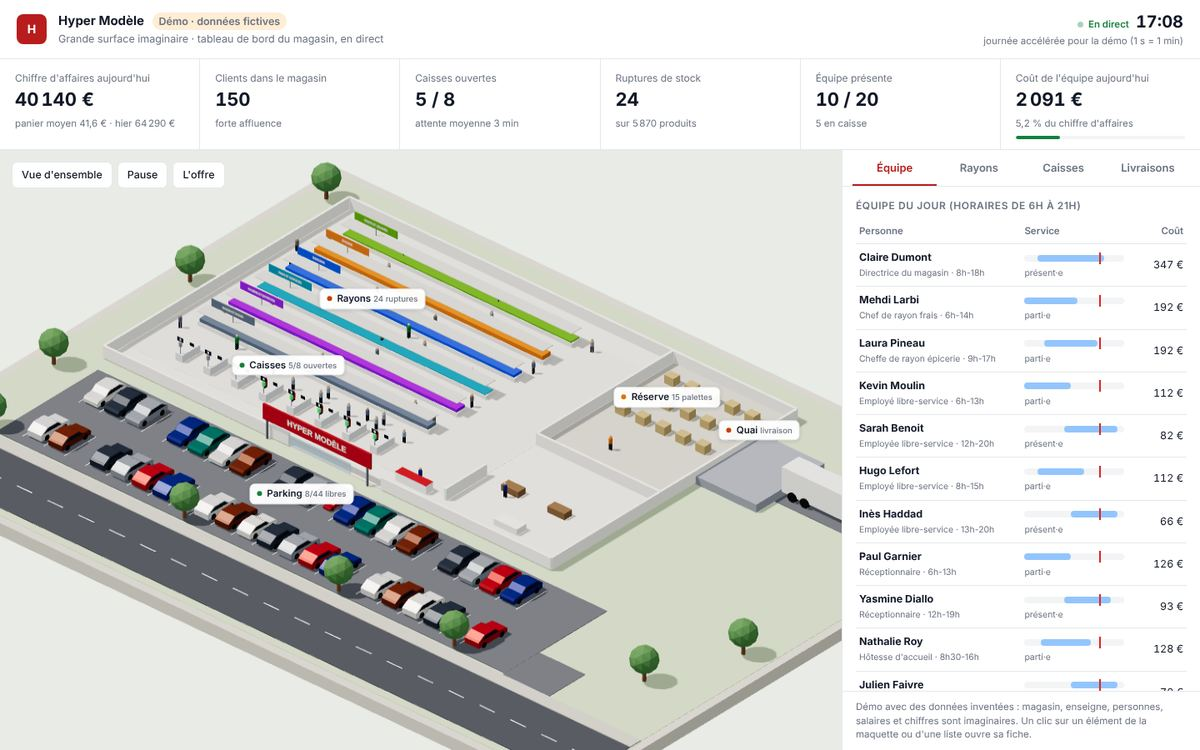
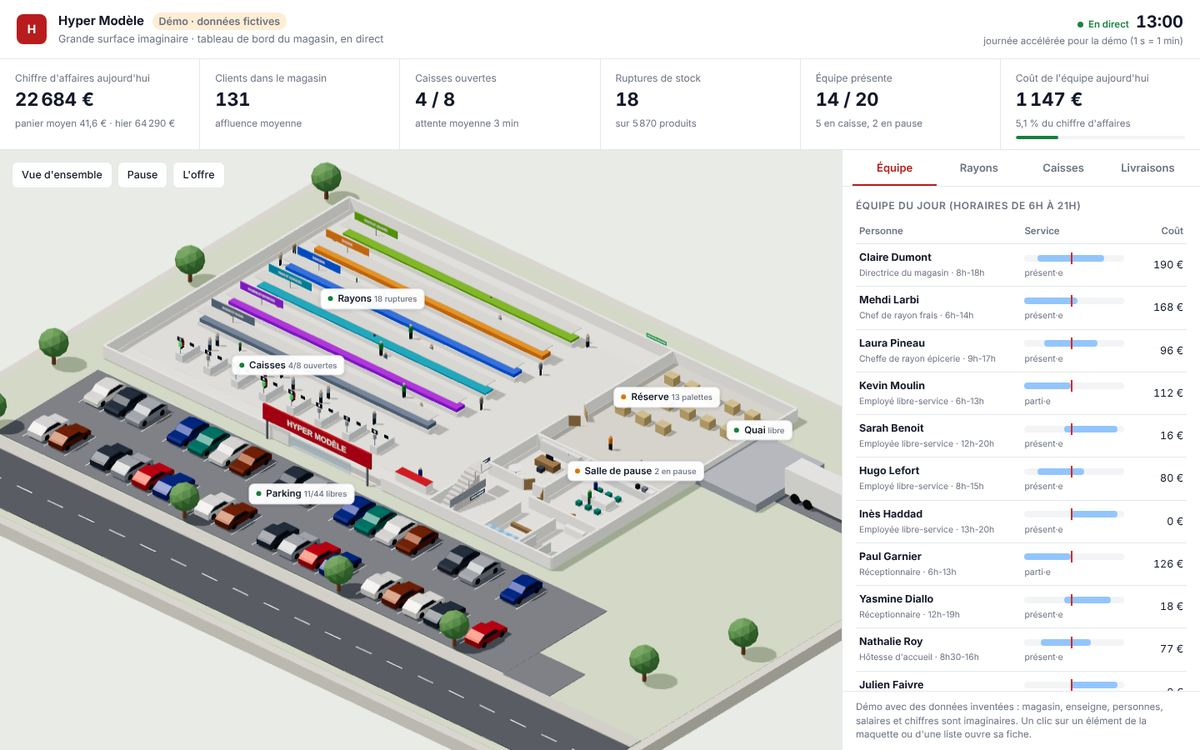
Démo grande surface en vrai bâtiment : bureau de la direction, salle de pause avec pauses en direct, couloir et portes, vestiaires, sanitaires, escalier vers l'étage, sortie de secours ; page de vente sans émojis (icônes dessinées)
Claude-Session: https://claude.ai/code/session_019sAS1mSCwtL7mbf5WR9LH2

diff --git a/crm-visuel/grande-surface/index.html b/crm-visuel/grande-surface/index.html
@@ -216,6 +216,10 @@ const hh = (h) => `${String(Math.floor(h)).padStart(2, '0')}:${String(Math.floor
 const hTxt = (h) => `${Math.floor(h)}h${h % 1 ? String(Math.round((h % 1) * 60)).padStart(2, '0') : ''}`;
 const euros = (n) => Math.round(n).toLocaleString('fr-FR') + ' €';
 const present = (e) => e.debut <= t && t < e.fin;
+// Pause de 30 min au milieu du service (sauf en caisse, remplacée par la caisse voisine) : données fictives
+const debutPause = (e) => (e.fin - e.debut >= 5 && !e.zone.startsWith('c') ? Math.round(((e.debut + e.fin) / 2 - 0.25) * 4) / 4 : null);
+const enPause = (e) => { const d = debutPause(e); return d !== null && present(e) && t >= d && t < d + 0.5; };
+const SIEGES = [[12.3, -6.95, 0], [13.5, -5.05, Math.PI], [14.7, -6.95, 0], [12.3, -5.05, Math.PI], [14.7, -5.05, Math.PI], [13.5, -6.95, 0]];
 // Affluence de 0 à 1 : creux le matin, pic à midi et en fin d'après-midi
 const affluence = (h = t) => (h < OUVERTURE || h > FERMETURE ? 0 : Math.min(1, 0.25 + 0.55 * Math.exp(-((h - 12.3) ** 2) / 1.2) + 0.75 * Math.exp(-((h - 18) ** 2) / 1.6)));
 const clientsEn = (h) => 20 + 180 * affluence(h);
@@ -285,7 +289,8 @@ boite(16, 0.02, 20, 0xcfccc4, 10, 0.2, -20, scene, false);    // réserve
 const mur = (l, p, x, z) => boite(l, HM, p, MUR, x, 0.2, z);
 mur(BX1 - BX0, EM, (BX0 + BX1) / 2, BZ0); mur(EM, BZ1 - BZ0, BX0, (BZ0 + BZ1) / 2); mur(EM, BZ1 - BZ0, BX1, (BZ0 + BZ1) / 2);
 mur(24, EM, -28, BZ1); mur(22, EM, 7, BZ1); // façade, entrée au milieu
-mur(EM, 20, 2, -20); mur(EM, 6, 2, 0.5);    // cloison réserve / bureaux
+mur(EM, 13, 2, -23.5); mur(EM, 4.5, 2, -12.25); // cloison réserve, portes battantes entre les deux
+mur(EM, 7, 2, -6.5); mur(EM, 7, 2, 2.5);          // cloison des locaux du personnel, entrée du couloir entre z -3 et -1
 mur(16, EM, 10, -10);
 const verre = new THREE.MeshStandardMaterial({ color: 0x9cc3d9, transparent: true, opacity: 0.45, roughness: 0.1 });
 boite(8, 1.2, 0.08, verre, -12, 0.2, BZ1, scene, false);
@@ -324,7 +329,40 @@ for (let i = 0; i < NB_CAISSES; i++) {
 }
 // Accueil et bureaux
 boite(4, 1.05, 1, 0xf8fafc, -2, 0.2, 3.5); boite(4, 0.05, 1.05, 0xb91c1c, -2, 1.25, 3.5, scene, false); zone(6, 4, -2, 3.5, 'accueil', 0.22);
-boite(2.2, 0.75, 1.1, 0x8b6b4a, 6, 0.2, -2); boite(2.2, 0.75, 1.1, 0x8b6b4a, 12, 0.2, -2); boite(3, 0.75, 1.4, 0xf5f5f4, 10, 0.2, 3); zone(15, 15, 10, -2, 'bureau', 0.22);
+// Locaux du personnel (derrière l'accueil) : bureau de la direction, salle de pause, couloir, vestiaires, sanitaires, escalier
+const BOIS = 0x8b6b4a, GRIS = 0x9ca3af, FONCE = 0x374151, BLANC = 0xf8fafc;
+const porte = (x, z, rot, l = 1.1) => { const g = new THREE.Group(); boite(l, 1.25, 0.06, 0xb08d64, l / 2, 0.2, 0, g); g.position.set(x, 0, z); g.rotation.y = rot; scene.add(g); };
+const panneauTexte = (txt, x, y, z, rot = 0, fond = '#1e3a8a', l = 2.4) => { const m = new THREE.Mesh(new THREE.PlaneGeometry(l, 0.45), new THREE.MeshBasicMaterial({ map: texte(txt, { w: 512, h: 96, fond, couleur: '#fff', taille: 44 }), side: THREE.DoubleSide })); m.position.set(x, y, z); m.rotation.y = rot; scene.add(m); };
+mur(EM, 7, 9, -6.5);                         // direction | pause
+mur(4.5, EM, 4.25, -3); mur(1.3, EM, 8.35, -3); // direction | couloir (porte en x 6.5-7.7)
+mur(9, EM, 13.5, -1);                        // pause | vestiaires
+mur(EM, 5.6, 9, 3.2); mur(EM, 5.6, 13.5, 3.2); // escalier | vestiaires | sanitaires (portes côté couloir)
+porte(9, -3, -Math.PI / 2 + 0.5); porte(6.5, -3, 0.9); porte(9, -1, 0.6); porte(13.5, -1, 0.6);
+porte(2, -17, -Math.PI / 2 + 0.9, 1.25); porte(2, -14.5, Math.PI / 2 - 0.9, 1.25);
+panneauTexte('PERSONNEL', 2.2, 2.1, -2, Math.PI / 2, '#374151', 1.8);
+panneauTexte('SORTIE DE SECOURS', 0, 2.1, -29.8, 0, '#15803d', 2.6);
+// bureau de la direction
+boite(2.4, 0.75, 1.1, BOIS, 5.5, 0.2, -7.6); boite(0.9, 0.5, 0.05, 0x111827, 5.5, 0.95, -7.9); boite(0.6, 0.5, 0.6, FONCE, 5.5, 0.2, -6.6);
+boite(5, 1.25, 0.45, 0xe5e7eb, 5.5, 0.2, -9.6); for (let k = 0; k < 4; k++) boite(1.05, 0.3, 0.35, [0x1e3a8a, 0xb91c1c, 0x15803d, 0xd97706][k], 3.7 + k * 1.2, 1.1, -9.6, scene, false);
+const tableRonde = new THREE.Mesh(new THREE.CylinderGeometry(0.7, 0.7, 0.06, 24), mat(BLANC)); tableRonde.position.set(4, 0.95, -4.6); scene.add(tableRonde); boite(0.1, 0.75, 0.1, GRIS, 4, 0.2, -4.6);
+// salle de pause : table et chaises, coin cuisine, canapé
+boite(3.2, 0.75, 1.4, BLANC, 13.5, 0.2, -6); for (const x of [12.3, 13.5, 14.7]) for (const z of [-7.5, -4.5]) boite(0.5, 0.45, 0.5, 0x0f766e, x, 0.2, z);
+boite(7, 0.9, 0.7, 0xe5e7eb, 13.5, 0.2, -9.5); boite(0.7, 0.05, 0.5, GRIS, 11.2, 1.1, -9.5, scene, false); boite(0.35, 0.45, 0.35, 0x111827, 15.5, 1.1, -9.5);
+boite(0.8, 1.35, 0.7, BLANC, 17.3, 0.2, -9.4); boite(0.5, 0.5, 0.4, 0x6b7280, 16.4, 1.1, -9.5);
+boite(0.8, 0.45, 2.6, 0x64748b, 17.4, 0.2, -4.6); boite(0.25, 0.7, 2.6, 0x475569, 17.75, 0.2, -4.6);
+// vestiaires : casiers et banc
+for (let k = 0; k < 8; k++) boite(0.5, 1.3, 0.45, k % 2 ? 0x60a5fa : 0x93c5fd, 9.55 + k * 0.5, 0.2, 5.5);
+boite(2.6, 0.4, 0.4, BOIS, 11.2, 0.2, 2.6);
+// sanitaires : deux cabines et lavabos
+for (const x of [14.9, 16.8]) { boite(EM * 0.5, 1.2, 2.2, 0xe5e7eb, x - 0.95, 0.2, 4.8); boite(0.45, 0.45, 0.6, 0xffffff, x, 0.2, 5.4); }
+boite(EM * 0.5, 1.2, 2.2, 0xe5e7eb, 17.75, 0.2, 4.8); boite(2.4, 0.85, 0.5, 0xffffff, 15.8, 0.2, 0);
+// escalier vers l'étage (10 marches) et palier
+const ESC = [];
+for (let k = 0; k < 10; k++) { const h = 0.28 * (k + 1); ESC.push(boite(1.6, h, 0.46, 0xd6d3d1, 3.4, 0.2, 5.3 - k * 0.46)); }
+boite(1.6, 0.12, 1.6, 0xd6d3d1, 3.4, 2.98, -0.06); boite(0.06, 0.9, 5.2, GRIS, 4.25, 1.2, 2.7, scene, false);
+for (let k = 0; k < 6; k++) boite(0.05, 0.9, 0.05, GRIS, 4.25, 0.2 + 0.28 * (k * 2 + 1), 5.3 - k * 0.92, scene, false);
+panneauTexte('ÉTAGE : BUREAUX', 5.6, 2.1, 2.8, Math.PI / 2, '#374151', 2.2);
+zone(7, 7, 5.5, -6.5, 'bureau', 0.22); zone(9, 9, 13.5, -5.5, 'pause', 0.22); zone(7, 7, 5.5, 2.5, 'escalier', 0.22); zone(9, 7, 13.5, 2.5, 'vestiaires', 0.22);
 // Réserve : palettes dont la hauteur suit les livraisons
 const palettes = [];
 for (let r = 0; r < 4; r++) for (let c = 0; c < 5; c++) { const p = boite(1.2, 1, 1, 0xc2a878, 4.5 + c * 2.6, 0.2, -27 + r * 3.6); palettes.push(p); }
@@ -356,7 +394,7 @@ function personne(couleur, taille = 1) {
 function posteDe(e, i) {
   if (e.zone.startsWith('c')) { const c = CAISSES[caisseDe(e)]; return new THREE.Vector3(c.x - 0.9, 0.2, c.z - 0.2); }
   if (/^r\d/.test(e.zone)) { const g = gondoles[e.zone]; return new THREE.Vector3(g.x0 + 8 + (i % 3) * 7, 0.2, g.z + 1.4); }
-  return { bureau: new THREE.Vector3(6, 0.2, -0.8), reserve: new THREE.Vector3(8 + (i % 2) * 4, 0.2, -14), accueil: new THREE.Vector3(-2, 0.2, 2.6) }[e.zone].clone();
+  return { bureau: new THREE.Vector3(5.5, 0.2, -6.9), reserve: new THREE.Vector3(8 + (i % 2) * 4, 0.2, -14), accueil: new THREE.Vector3(-2, 0.2, 2.6) }[e.zone].clone();
 }
 const COULEUR_POSTE = (e) => (e.zone.startsWith('c') ? 0xb91c1c : /^r\d/.test(e.zone) ? 0x15803d : e.zone === 'reserve' ? 0xd97706 : 0x1e3a8a);
 const objets = {};
@@ -411,6 +449,7 @@ function etiquette(cle, pos, fn) { const el = document.createElement('div'); el.
 const point = (c) => `<i style="background:${c}"></i>`;
 etiquette('caisses', () => new THREE.Vector3(-21, 3.6, 0.5), () => { const o = caissesOuvertes().length; return `${point(o >= 4 ? '#15803d' : '#c2410c')}Caisses <small>${o}/${NB_CAISSES} ouvertes</small>`; });
 etiquette('rayons', () => new THREE.Vector3(-22, 4.4, -13), () => { const n = RAYONS.reduce((s, r) => s + rupturesDe(r), 0); return `${point(n > 20 ? '#c2410c' : '#15803d')}Rayons <small>${n} ruptures</small>`; });
+etiquette('pause', () => new THREE.Vector3(16, 2.6, -8.6), () => { const n = EQUIPE.filter(enPause).length; return `${point(n ? '#d97706' : '#15803d')}Salle de pause <small>${n ? n + ' en pause' : 'libre'}</small>`; });
 etiquette('reserve', () => new THREE.Vector3(10, 3.2, -20), () => `${point('#d97706')}Réserve <small>${palettes.filter((p) => p.visible).length} palettes</small>`);
 etiquette('quai', () => new THREE.Vector3(22, 4.5, -20), () => { const d = LIVRAISONS.find((x) => statutLiv(x) === 'au quai'); return d ? `${point('#c2410c')}Quai <small>livraison</small>` : `${point('#15803d')}Quai <small>libre</small>`; });
 etiquette('parking', () => new THREE.Vector3(-6, 2.2, 15.5), () => { const n = autos.filter((a) => a.o.userData.cible === 1).length; return `${point(n < PLACES.length - 4 ? '#15803d' : '#c2410c')}Parking <small>${PLACES.length - n}/${PLACES.length} libres</small>`; });
@@ -442,7 +481,7 @@ function majKpis() {
   const o = caissesOuvertes().length, att = Math.max(1, Math.round((affluence() * 9) / Math.max(1, o) * 2));
   $('k-caisses').textContent = `${o} / ${NB_CAISSES}`; $('k-caisses-d').textContent = `attente moyenne ${att} min`;
   const rup = RAYONS.reduce((s, r) => s + rupturesDe(r), 0); $('k-ruptures').textContent = rup; $('k-ruptures-d').textContent = `sur ${RAYONS.reduce((s, r) => s + r.refs, 0).toLocaleString('fr-FR')} produits`;
-  const pres = EQUIPE.filter(present).length; $('k-equipe').textContent = `${pres} / ${EQUIPE.length}`; $('k-equipe-d').textContent = `${caissiers().length} en caisse`;
+  const pres = EQUIPE.filter(present).length; $('k-equipe').textContent = `${pres} / ${EQUIPE.length}`; const pz = EQUIPE.filter(enPause).length; $('k-equipe-d').textContent = `${caissiers().length} en caisse${pz ? `, ${pz} en pause` : ''}`;
   $('k-salaires').textContent = euros(cout); const p = ca ? (cout / ca) * 100 : 0; $('k-salaires-d').textContent = `${p.toFixed(1).replace('.', ',')} % du chiffre d'affaires`; $('k-salaires-j').style.width = Math.min(100, p * 5) + '%';
 }
 let onglet = 'equipe', selection = null;
@@ -496,7 +535,7 @@ function rendreFiche() {
   f.classList.add('vu');
   if (/^e\d/.test(s)) {
     const e = EQUIPE.find((x) => x.id === s), p = present(e);
-    c.innerHTML = `<h3>${e.nom}</h3><p class="sous">${e.poste}</p><span class="statut ${p ? 'ok' : ''}">${p ? 'Présent·e' : t < e.debut ? 'Arrive à ' + hTxt(e.debut) : 'Service terminé'}</span><ul class="lignes">${li('Horaires', `${hTxt(e.debut)} – ${hTxt(e.fin)}`)}${li('Heures aujourd\'hui', String(Math.round(Math.max(0, Math.min(t, e.fin) - e.debut) * 10) / 10).replace('.', ',') + ' h')}${li('Coût horaire chargé', euros(e.cout))}${li('Coût du jour', euros(Math.max(0, Math.min(t, e.fin) - e.debut) * e.cout))}</ul>`;
+    c.innerHTML = `<h3>${e.nom}</h3><p class="sous">${e.poste}</p><span class="statut ${enPause(e) ? 'att' : p ? 'ok' : ''}">${enPause(e) ? 'En pause' : p ? 'Présent·e' : t < e.debut ? 'Arrive à ' + hTxt(e.debut) : 'Service terminé'}</span><ul class="lignes">${li('Horaires', `${hTxt(e.debut)} – ${hTxt(e.fin)}`)}${debutPause(e) !== null ? li('Pause', `${hTxt(debutPause(e))} – ${hTxt(debutPause(e) + 0.5)}`) : ''}${li('Heures aujourd\'hui', String(Math.round(Math.max(0, Math.min(t, e.fin) - e.debut) * 10) / 10).replace('.', ',') + ' h')}${li('Coût horaire chargé', euros(e.cout))}${li('Coût du jour', euros(Math.max(0, Math.min(t, e.fin) - e.debut) * e.cout))}</ul>`;
   } else if (/^r\d/.test(s)) {
     const r = RAYON_DE(s), st = stockDe(r), resp = EQUIPE.filter((e) => e.zone === s && present(e)).map((e) => e.nom).join(', ') || 'personne en ce moment';
     const liv = LIVRAISONS.filter((d) => d.rayon === s && d.heure > t)[0];
@@ -514,14 +553,17 @@ function rendreFiche() {
       reserve: () => `<h3>Réserve</h3><p class="sous">Palettes en attente de mise en rayon</p><ul class="lignes">${li('Palettes', palettes.filter((p) => p.visible).length)}${li('Réceptionnaires présents', EQUIPE.filter((e) => e.zone === 'reserve' && present(e)).map((e) => e.nom).join(', ') || 'aucun')}</ul>`,
       parking: () => { const n = autos.filter((a) => a.o.userData.cible === 1).length; return `<h3>Parking clients</h3><p class="sous">${PLACES.length} places</p><span class="statut ${PLACES.length - n > 4 ? 'ok' : 'att'}">${PLACES.length - n} places libres</span>`; },
       accueil: () => `<h3>Accueil</h3><p class="sous">Point d'accueil et service client</p><ul class="lignes">${li('À l\'accueil', EQUIPE.filter((e) => e.zone === 'accueil' && present(e)).map((e) => e.nom).join(', ') || 'personne')}${li('Clients dans le magasin', clientsMagasin())}</ul>`,
-      bureau: () => `<h3>Bureaux</h3><p class="sous">Direction et salle de pause</p><ul class="lignes">${li('Direction', EQUIPE.filter((e) => e.zone === 'bureau' && present(e)).map((e) => e.nom).join(', ') || 'absente')}${li('Équipe présente', `${EQUIPE.filter(present).length} sur ${EQUIPE.length}`)}</ul>`,
+      pause: () => { const n = EQUIPE.filter(enPause), suiv = EQUIPE.filter((e) => debutPause(e) !== null && debutPause(e) > t).sort((a, b) => debutPause(a) - debutPause(b))[0]; return `<h3>Salle de pause</h3><p class="sous">Table de 6 places, coin cuisine, canapé</p><span class="statut ${n.length ? 'att' : 'ok'}">${n.length ? n.length + ' en pause' : 'Libre'}</span><ul class="lignes">${li('En pause', n.map((e) => e.nom).join(', ') || 'personne')}${li('Prochaine pause', suiv ? `${hTxt(debutPause(suiv))}, ${suiv.nom}` : 'aucune aujourd\'hui')}${li('Durée', '30 min au milieu du service')}</ul>`; },
+      escalier: () => `<h3>Escalier du personnel</h3><p class="sous">Vers l'étage : bureaux administratifs et salle de réunion</p><ul class="lignes">${li('Accès', 'couloir du personnel, derrière l\'accueil')}${li('À l\'étage', 'non dessiné dans la démo')}</ul>`,
+      vestiaires: () => `<h3>Vestiaires et sanitaires</h3><p class="sous">Réservés au personnel</p><ul class="lignes">${li('Casiers', 8)}${li('Équipe dans le magasin', `${EQUIPE.filter(present).length} sur ${EQUIPE.length}`)}</ul>`,
+      bureau: () => `<h3>Bureau de la direction</h3><p class="sous">Bureau, armoire, table de réunion</p><ul class="lignes">${li('Direction', EQUIPE.filter((e) => e.zone === 'bureau' && present(e)).map((e) => e.nom + (enPause(e) ? ' (en pause)' : '')).join(', ') || 'absente')}${li('Équipe présente', `${EQUIPE.filter(present).length} sur ${EQUIPE.length}`)}</ul>`,
       magasin: () => `<h3>Le magasin</h3><p class="sous">Hyper Modèle, grande surface imaginaire</p><ul class="lignes">${li('Clients dans le magasin', clientsMagasin())}${li('Caisses ouvertes', `${caissesOuvertes().length} sur ${NB_CAISSES}`)}${li('Équipe présente', `${EQUIPE.filter(present).length} sur ${EQUIPE.length}`)}${li('Chiffre d\'affaires', euros(caDuJour()))}</ul>`,
     };
     c.innerHTML = (T[s] || T.magasin)();
   }
 }
 // Zoom au clic
-const ZOOMS = { magasin: 1.7, caisses: 2.2, rayons: 1.9, reserve: 2.4, quai: 2.4, parking: 1.7, accueil: 3, bureau: 2.6 };
+const ZOOMS = { magasin: 1.7, caisses: 2.2, rayons: 1.9, reserve: 2.4, quai: 2.4, parking: 1.7, accueil: 3, bureau: 3.4, pause: 3.2, escalier: 3.4, vestiaires: 3.4 };
 let vise = null;
 function viser(cible, zoom) { vise = { de: controls.target.clone(), vers: cible.clone().setY(0), z0: camera.zoom, z1: zoom, k: 0 }; }
 function positionDe(s) {
@@ -530,7 +572,7 @@ function positionDe(s) {
   if (/^r\d/.test(s)) { const g = gondoles[s]; return [new THREE.Vector3(g.x0 + g.l / 2, 0, g.z), 2.4]; }
   if (/^c\d/.test(s)) { const c = CAISSES[+s.slice(1)]; return [new THREE.Vector3(c.x, 0, c.z), 3]; }
   if (/^d\d/.test(s)) return [new THREE.Vector3(22, 0, -20), 2.4];
-  const P = { magasin: [-11, -12], caisses: [-21, 0.5], rayons: [-22, -14], reserve: [10, -20], quai: [27, -20], parking: [-6, 15.5], accueil: [-2, 3.5], bureau: [9, -2] }[s];
+  const P = { magasin: [-11, -12], caisses: [-21, 0.5], rayons: [-22, -14], reserve: [10, -20], quai: [27, -20], parking: [-6, 15.5], accueil: [-2, 3.5], bureau: [5.5, -6.5], pause: [13.5, -5.5], escalier: [5.5, 2.5], vestiaires: [13.5, 2.5] }[s];
   return P ? [new THREE.Vector3(P[0], 0, P[1]), ZOOMS[s]] : null;
 }
 function choisir(cle) {
@@ -577,7 +619,18 @@ function animer(now) {
     const tg = c.boucle.getTangentAt(c.u); let d = Math.atan2(tg.x, tg.z) - c.rot; d = Math.atan2(Math.sin(d), Math.cos(d)); c.rot += d * Math.min(1, dt * 8); c.o.rotation.y = c.rot;
   }
   // l'équipe en rayon fait de petits va-et-vient
-  for (const x of Object.values(objets)) if (/^r\d/.test(x.e.zone) && x.obj.visible) { x.phase += dt * 0.35; x.obj.position.x = x.base.x + Math.sin(x.phase) * 2.5; x.obj.rotation.y = Math.cos(x.phase) > 0 ? Math.PI / 2 : -Math.PI / 2; }
+  // pause : la personne rejoint la salle de pause puis revient à son poste ; en rayon, petits va-et-vient
+  let siege = 0;
+  for (const x of Object.values(objets)) {
+    const p = enPause(x.e), [sx, sz, sr] = SIEGES[siege % SIEGES.length]; if (p) siege++;
+    const rayon = /^r\d/.test(x.e.zone) && !p;
+    if (rayon && !x.retour && x.obj.visible) x.phase += dt * 0.35;
+    const cible = p ? new THREE.Vector3(sx, 0.2, sz) : x.base.clone().setX(x.base.x + (rayon ? Math.sin(x.phase) * 2.5 : 0));
+    const d = x.obj.position.distanceTo(cible);
+    x.retour = d > 0.4;
+    if (x.retour || !x.obj.visible) { x.obj.position.lerp(cible, x.obj.visible ? Math.min(1, dt * 2.5) : 1); x.obj.rotation.y = Math.atan2(cible.x - x.obj.position.x, cible.z - x.obj.position.z); }
+    else { x.obj.position.copy(cible); x.obj.rotation.y = p ? sr : rayon ? (Math.cos(x.phase) > 0 ? Math.PI / 2 : -Math.PI / 2) : x.obj.rotation.y; }
+  }
   // camion : arrive en marche arrière au quai par sa voie, repart en douceur
   if (camionAnim) {
     camionAnim.k = Math.max(0, Math.min(1, camionAnim.k + (camionAnim.sens * ecoule) / 6));
@@ -599,7 +652,7 @@ function animer(now) {
   requestAnimationFrame(animer);
 }
 synchroniser(true);
-window.demo = { temps: () => t, camera, controls, scene, THREE, regler: (h) => { t = h; oublierCommandes(); synchroniser(); }, avancer: (dh) => { t += dh; synchroniser(); } };
+window.demo = { temps: () => t, camera, controls, scene, THREE, choisir: (c) => choisir(c), regler: (h) => { t = h; oublierCommandes(); synchroniser(); }, avancer: (dh) => { t += dh; synchroniser(); } };
 requestAnimationFrame(animer);
 </script>
 </body>

diff --git a/crm-visuel/offre/index.html b/crm-visuel/offre/index.html
@@ -60,7 +60,7 @@
   .grille4 { display: grid; grid-template-columns: repeat(4, 1fr); gap: 16px; }
   .carte { background: var(--carte); border: 1px solid var(--ligne); border-radius: 12px; padding: 22px; transition: transform .2s ease, box-shadow .2s ease, border-color .2s ease; }
   .carte:hover { transform: translateY(-4px); box-shadow: 0 14px 30px rgba(17,24,39,.08); border-color: #c7d2fe; }
-  .carte .ico { font-size: 22px; display: inline-block; margin-bottom: 8px; transition: transform .3s ease; }
+  .carte .ico { display: block; color: var(--accent); margin-bottom: 10px; transition: transform .3s ease; }
   .carte:hover .ico { transform: scale(1.2) rotate(-6deg); }
   .chiffres { display: grid; grid-template-columns: repeat(4, 1fr); gap: 16px; margin-top: 28px; }
   .chiffre { text-align: center; padding: 18px 10px; border-radius: 12px; background: linear-gradient(180deg, #eef2ff, #fff); border: 1px solid #e0e7ff; }
@@ -138,7 +138,7 @@
   <div class="apercu">
     <div class="ecran" id="ecran">
       <span class="direct"><i></i>En direct</span>
-      <button class="essayer" id="essayer" type="button">▶ Essayer ici</button>
+      <button class="essayer" id="essayer" type="button"><svg viewBox="0 0 24 24" width="12" height="12" fill="currentColor" aria-hidden="true" style="vertical-align:-1px;margin-right:4px"><path d="M7 4l13 8-13 8z"/></svg>Essayer ici</button>
       <img class="vu" src="demo-auto-ecole.jpg" alt="Démo : une auto-école fictive en maquette 3D, avec le planning du jour et les chiffres clés" width="1200" height="750">
       <img src="demo-zoom.jpg" alt="Zoom sur la salle de code de l'auto-école fictive" width="1200" height="750" loading="lazy">
       <img src="demo-grande-surface.jpg" alt="Grande surface fictive en maquette 3D" width="1200" height="750" loading="lazy">
@@ -153,10 +153,10 @@
   <h2>Clair, précis, facile, rentable.</h2>
   <p class="chapo">Pensé pour les gérants qui veulent voir leur journée en un coup d'œil, sans apprendre un logiciel.</p>
   <div class="grille4">
-    <div class="carte apparait"><span class="ico">👀</span><h3>Clair</h3><p>Vos locaux dessinés comme une maquette. Vert, c'est libre ; orange, c'est occupé.</p></div>
-    <div class="carte apparait"><span class="ico">🎯</span><h3>Précis</h3><p>Le planning du jour heure par heure, avec un trait « maintenant ». Le prénom et le nom de chaque personne.</p></div>
-    <div class="carte apparait"><span class="ico">👆</span><h3>Facile</h3><p>Un clic sur un élément zoome dessus et ouvre sa fiche. Sur ordinateur, tablette ou téléphone.</p></div>
-    <div class="carte apparait"><span class="ico">📈</span><h3>Rentable</h3><p>En haut de l'écran : encaissé du jour et du mois, remplissage de l'équipe, ce qui reste à encaisser.</p></div>
+    <div class="carte apparait"><svg class="ico" viewBox="0 0 24 24" width="26" height="26" fill="none" stroke="currentColor" stroke-width="2" stroke-linecap="round" stroke-linejoin="round" aria-hidden="true"><path d="M2 12s3.6-7 10-7 10 7 10 7-3.6 7-10 7S2 12 2 12z"/><circle cx="12" cy="12" r="3"/></svg><h3>Clair</h3><p>Vos locaux dessinés comme une maquette. Vert, c'est libre ; orange, c'est occupé.</p></div>
+    <div class="carte apparait"><svg class="ico" viewBox="0 0 24 24" width="26" height="26" fill="none" stroke="currentColor" stroke-width="2" stroke-linecap="round" stroke-linejoin="round" aria-hidden="true"><circle cx="12" cy="12" r="9"/><circle cx="12" cy="12" r="5"/><circle cx="12" cy="12" r="1"/></svg><h3>Précis</h3><p>Le planning du jour heure par heure, avec un trait « maintenant ». Le prénom et le nom de chaque personne.</p></div>
+    <div class="carte apparait"><svg class="ico" viewBox="0 0 24 24" width="26" height="26" fill="none" stroke="currentColor" stroke-width="2" stroke-linecap="round" stroke-linejoin="round" aria-hidden="true"><path d="M9 11V5a2 2 0 0 1 4 0v6"/><path d="M13 9a2 2 0 0 1 4 0v3"/><path d="M17 11a2 2 0 0 1 4 0v4a6 6 0 0 1-6 6h-2a6 6 0 0 1-5-2.7L4.6 15a2 2 0 0 1 3.2-2.4L9 14"/></svg><h3>Facile</h3><p>Un clic sur un élément zoome dessus et ouvre sa fiche. Sur ordinateur, tablette ou téléphone.</p></div>
+    <div class="carte apparait"><svg class="ico" viewBox="0 0 24 24" width="26" height="26" fill="none" stroke="currentColor" stroke-width="2" stroke-linecap="round" stroke-linejoin="round" aria-hidden="true"><path d="M3 17l6-6 4 4 8-8"/><path d="M15 7h6v6"/></svg><h3>Rentable</h3><p>En haut de l'écran : encaissé du jour et du mois, remplissage de l'équipe, ce qui reste à encaisser.</p></div>
   </div>
   <div class="chiffres apparait">
     <div class="chiffre"><b data-compte="20">20</b><span>personnes suivies</span></div>
@@ -172,7 +172,7 @@
   <p class="chapo">Les deux démos tournent toutes seules, avec des noms et des chiffres inventés. Votre version reprend vos locaux, votre équipe et vos chiffres.</p>
   <div class="exemples">
     <div class="exemple apparait"><div class="vignette"><img src="demo-zoom.jpg" alt="Zoom sur la salle de code de l'auto-école fictive" loading="lazy"><img src="demo-auto-ecole.jpg" alt="" loading="lazy"></div><div><h3>Une auto-école</h3><p>Voitures en leçon ou au parking, moniteurs disponibles, élèves de la salle de code, planning de chaque moniteur, élèves à relancer.</p><a class="btn" href="../">Ouvrir la démo</a></div></div>
-    <div class="exemple apparait"><div class="vignette"><img src="demo-grande-surface.jpg" alt="Grande surface fictive en maquette 3D" loading="lazy"><img src="demo-commande.jpg" alt="" loading="lazy"></div><div><h3>Une grande surface</h3><p>Caisses ouvertes et files d'attente, stock exact de chaque rayon et ruptures, commande de réassort en un clic, équipe présente et coût de la journée, livraisons au quai.</p><a class="btn" href="../grande-surface/">Ouvrir la démo</a></div></div>
+    <div class="exemple apparait"><div class="vignette"><img src="demo-grande-surface.jpg" alt="Grande surface fictive en maquette 3D" loading="lazy"><img src="demo-commande.jpg" alt="" loading="lazy"></div><div><h3>Une grande surface</h3><p>Caisses ouvertes et files d'attente, stock exact de chaque rayon et ruptures, commande de réassort en un clic, équipe présente, pauses et coût de la journée, livraisons au quai, locaux du personnel.</p><a class="btn" href="../grande-surface/">Ouvrir la démo</a></div></div>
   </div>
 </div></section>
 
